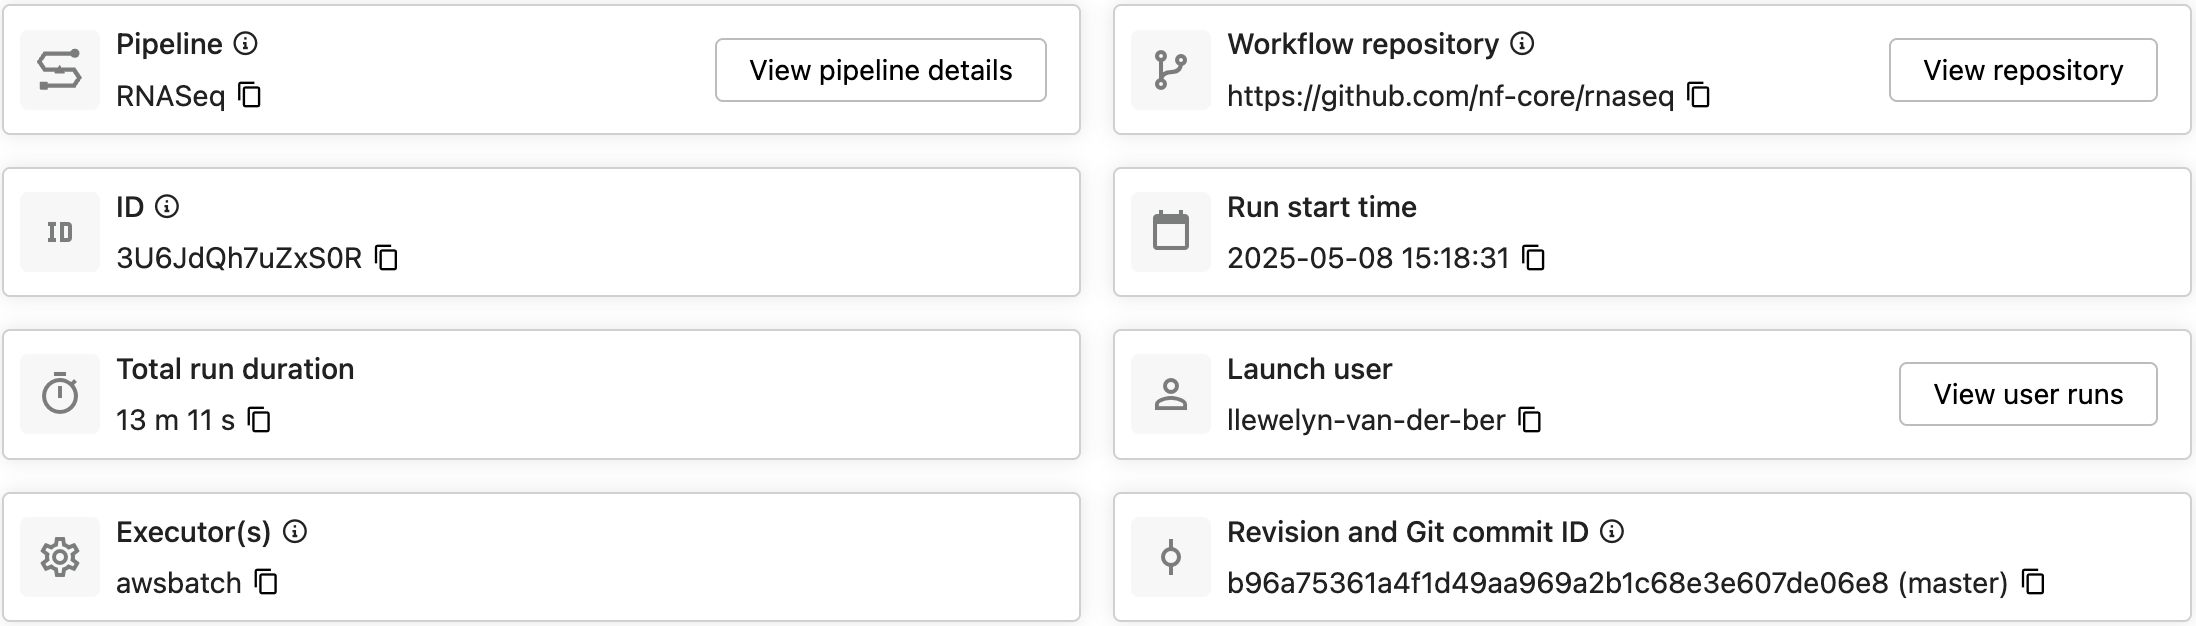
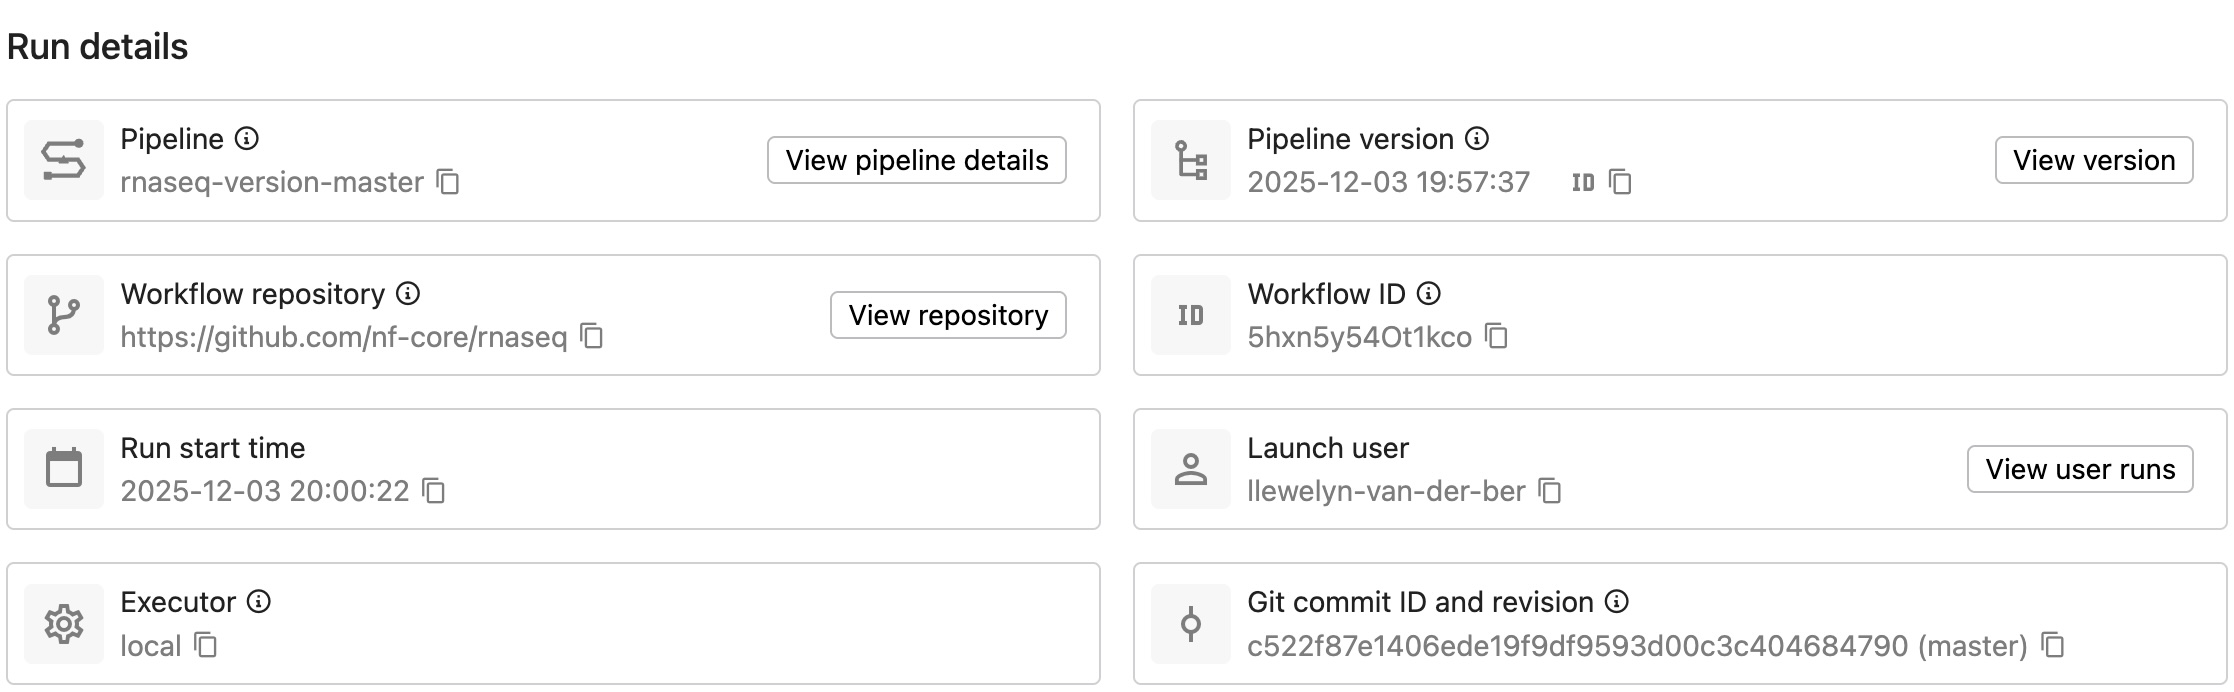
Update run details instructions and screen to include versioning, incorporate versioning code review suggestions

diff --git a/platform-enterprise_docs/pipelines/versioning.md b/platform-enterprise_docs/pipelines/versioning.md
@@ -5,22 +5,22 @@ date created: "2025-11-14"
 tags: [pipelines, versioning, nextflow, parameters]
 ---
 
-Seqera's pipeline versioning system captures configuration changes as new draft versions of the pipeline, ensuring configuration traceability and execution reproducibility. Users with appropriate permissions can edit and publish draft versions, creating published versions that teams can reference and launch consistently.
+Seqera's pipeline versioning system captures configuration changes as new draft versions of the pipeline, ensuring configuration traceability and execution reproducibility. Users with [Maintain or higher](../orgs-and-teams/roles.md) permissions can edit and publish draft versions, creating published versions that teams can reference and launch consistently.
 
 When you add a new pipeline to Seqera, the first default version of that pipeline is automatically published.
 
-New draft versions are automatically generated when you modify the following:
+New draft versions are automatically generated during pipeline edit or launch when you modify the following:
 - All pipeline schema parameters, unless the `track_changes` schema configuration for a given property is set to `false`.
-  :::info
-  Changes to all pipeline schema parameters trigger a new version by default (`"track_changes": true`). To alter this behavior for specific parameters, add `"track_changes": false` to the parameter definition:
-  ```json
-  "my_parameter": {
-    "type": "string",
-    "description": "Changes to this parameter will not trigger a new pipeline version to be created",
-    "track_changes": false
-  }
-  ```
-  :::
+    :::info
+    Changes to all pipeline schema parameters trigger a new version by default (`"track_changes": true`). To alter this behavior for specific parameters, add `"track_changes": false` to the parameter definition:
+    ```json
+    "my_parameter": {
+      "type": "string",
+      "description": "Changes to this parameter will not trigger a new pipeline version to be created",
+      "track_changes": false
+    }
+    ```
+    :::
 - Fields in the pipeline **Edit** form, excluding:
   - **Name**
   - **Image**
@@ -35,7 +35,7 @@ A pipeline's default version is shown in the Launchpad and automatically selecte
 
 Seqera maintains a history of all draft and published versions, providing an audit trail of pipeline evolution.
 
-#### Manage pipeline versions
+### Manage pipeline versions
 
 ![](./_images/pipeline-version-detail.jpg)
 

diff --git a/platform-enterprise_docs/pipelines/revision.md b/platform-enterprise_docs/pipelines/revision.md
@@ -7,7 +7,7 @@ tags: [pipelines, versioning, nextflow, parameters]
 
 Workflow repositories are mutable - branches can be updated, tags can be moved (though rarely), and the "latest" code changes over time. This creates a reproducibility challenge: launching the same pipeline configuration at different times could execute different workflow code.
 
-**Commit ID pinning** solves this by tracking the specific Git commit ID alongside the branch or tag revision. When you pin a commit ID, Seqera ensures that exact version of the workflow code is executed for every launch, regardless of upstream repository changes.
+**Commit ID pinning** solves this by tracking the specific Git commit ID alongside the branch or tag revision. When you pin a commit ID, Seqera ensures that exact version of the workflow code is executed for every launch, regardless of future changes to the repository branch or tag.
 
 :::info
 Commit ID pinning requires a valid pipeline and **Revision** (tag or branch name) to be specified. The **Commit ID** field and pin icon is disabled if the **Revision** field is left empty. 
@@ -22,7 +22,7 @@ The **Commit ID** and **Pull latest** fields appear on pipeline add, edit, and l
 **Cloud compute environments**
 
 | Revision | Commit ID | Pull latest | Launch behavior |
-|----------|-----------|-------------|-------------------|
+|----------|-----------|-------------|-----------------|
 | Branch/tag | Empty (unpinned) - default | OFF - default | Fetches current HEAD commit at execution time (non-deterministic). |
 | Branch/tag | Pinned | OFF - automatically set when pinned | Uses the pinned commit ID for deterministic execution. |
 | Branch/tag | Empty (unpinned) | ON | Fetches current HEAD commit at execution time (non-deterministic). Equivalent to `nextflow run -latest`. |
